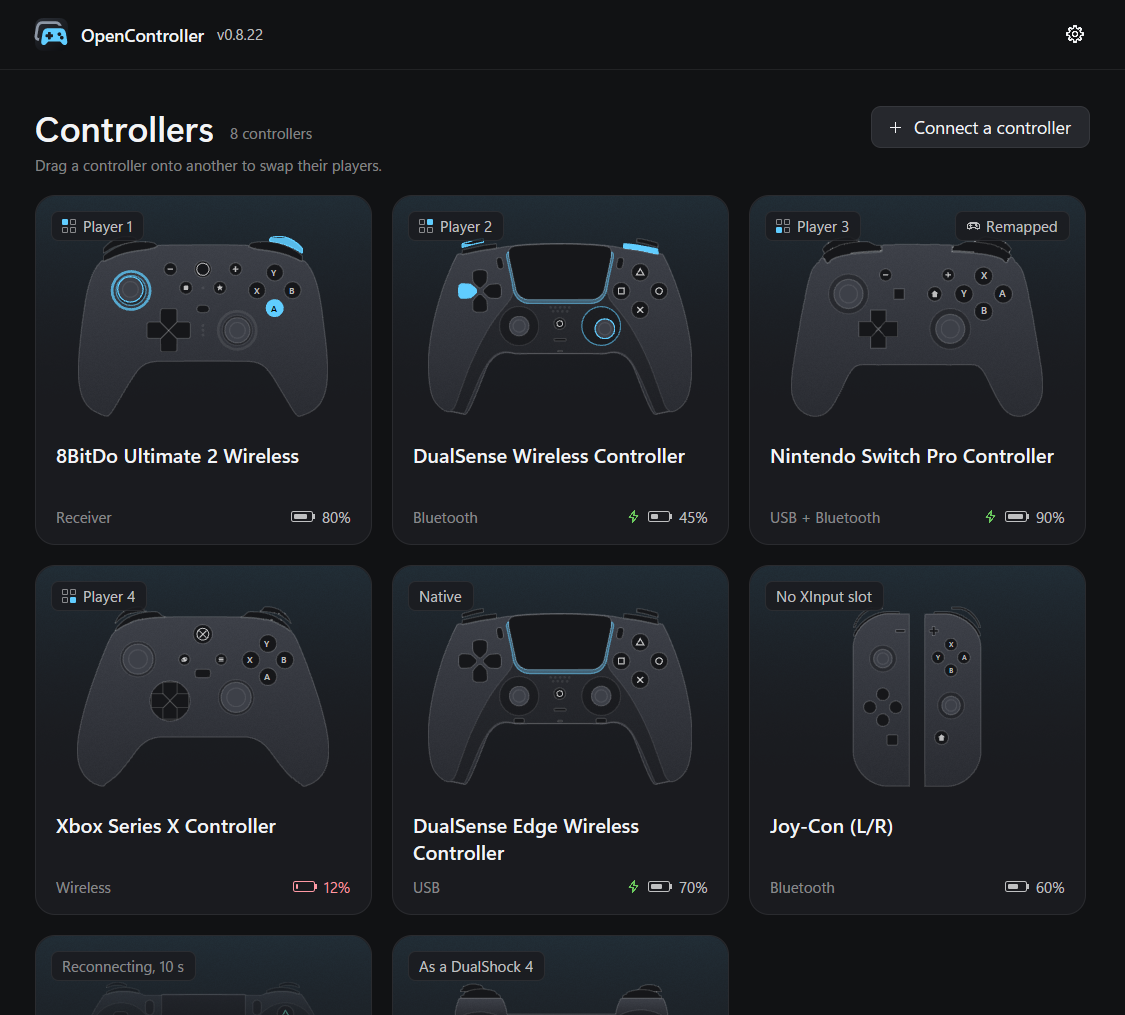
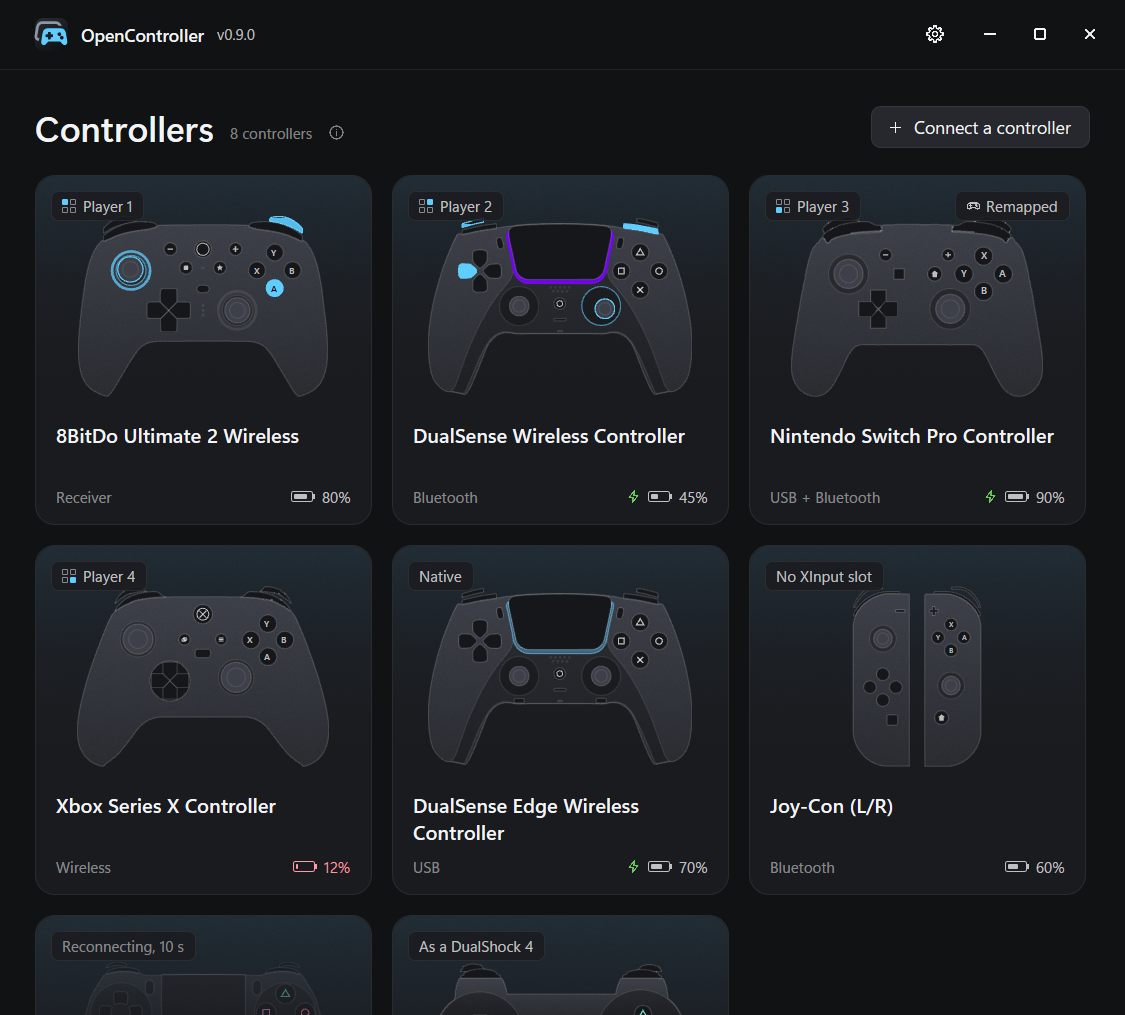
Update for 0.9.0

diff --git a/lib/guide-copy.ts b/lib/guide-copy.ts
@@ -27,8 +27,8 @@ export const GUIDE_COPY: Record<string, GuideCopy> = {
         title: { en: "Xbox or native", pt: "Xbox ou nativo" },
         body: [
           {
-            en: "By default games get an Xbox 360 controller: Xbox button prompts and rumble, but no adaptive triggers or haptics. Keep native, on the controller's page, gives the game the DualSense itself, for games that support it: PlayStation prompts, adaptive triggers and, over the cable, haptics. Profiles, gyro and remapping are off while it's native.",
-            pt: "Por padrão o jogo recebe um controle de Xbox 360: ícones de Xbox e vibração, sem gatilhos adaptáveis nem resposta tátil. Deixar nativo, na página do controle, entrega o próprio DualSense aos jogos que o suportam: ícones de PlayStation, gatilhos adaptáveis e, no cabo, resposta tátil. Perfis, giroscópio e remapeamento ficam desligados enquanto ele está nativo.",
+            en: "By default games get an Xbox 360 controller: Xbox button prompts and rumble, but no haptics, and the game can't set the adaptive triggers (the app's Lab page can give them resistance or vibration of its own). Native mode, on the controller's page, gives the game the DualSense itself, for games that support it: PlayStation prompts, adaptive triggers and, over the cable, haptics. Profiles, gyro and remapping are off while it's native.",
+            pt: "Por padrão o jogo recebe um controle de Xbox 360: ícones de Xbox e vibração, sem resposta tátil, e o jogo não usa os gatilhos adaptáveis (a página Laboratório do app dá a eles resistência ou vibração por conta própria). O Modo nativo, na página do controle, entrega o próprio DualSense aos jogos que o suportam: ícones de PlayStation, gatilhos adaptáveis e, no cabo, resposta tátil. Perfis, giroscópio e remapeamento ficam desligados enquanto ele está nativo.",
           },
         ],
       },
@@ -37,8 +37,8 @@ export const GUIDE_COPY: Record<string, GuideCopy> = {
         title: { en: "Gyro and touchpad", pt: "Giroscópio e touchpad" },
         body: [
           {
-            en: "The gyro is added to the right stick: always, while L2 is pulled, or while a button is held. The touchpad gives four buttons: click, left half, right half and two fingers. These and the mic button can each be an Xbox button, a key or a macro, in a profile per game.",
-            pt: "O giroscópio soma no analógico direito: sempre, com o L2 puxado ou segurando um botão. O touchpad vira quatro botões: clique, metade esquerda, metade direita e dois dedos. Esses e o botão do microfone podem ser um botão de Xbox, uma tecla ou uma macro, num perfil por jogo.",
+            en: "The gyro is added to the right stick: always, while L2 is pulled, or while a button is held. The touchpad gives four buttons: click, left half, right half and two fingers. These and the mic button can each be an Xbox button, a key or a macro, in a profile per game. On Windows, the touchpad can also move the mouse and the mic button can mute the PC.",
+            pt: "O giroscópio soma no analógico direito: sempre, com o L2 puxado ou segurando um botão. O touchpad vira quatro botões: clique, metade esquerda, metade direita e dois dedos. Esses e o botão do microfone podem ser um botão de Xbox, uma tecla ou uma macro, num perfil por jogo. No Windows, o touchpad também pode mover o mouse e o botão do microfone pode silenciar o PC.",
           },
         ],
       },
@@ -90,8 +90,8 @@ export const GUIDE_COPY: Record<string, GuideCopy> = {
         title: { en: "Gyro and touchpad", pt: "Giroscópio e touchpad" },
         body: [
           {
-            en: "The gyro is added to the right stick: always, while L2 is pulled, or while a button is held. The touchpad gives four buttons: click, left half, right half and two fingers. Each can be an Xbox button, a key or a macro, in a profile per game.",
-            pt: "O giroscópio soma no analógico direito: sempre, com o L2 puxado ou segurando um botão. O touchpad vira quatro botões: clique, metade esquerda, metade direita e dois dedos. Cada um pode ser um botão de Xbox, uma tecla ou uma macro, num perfil por jogo.",
+            en: "The gyro is added to the right stick: always, while L2 is pulled, or while a button is held. The touchpad gives four buttons: click, left half, right half and two fingers. Each can be an Xbox button, a key or a macro, in a profile per game. On Windows, the touchpad can also move the mouse.",
+            pt: "O giroscópio soma no analógico direito: sempre, com o L2 puxado ou segurando um botão. O touchpad vira quatro botões: clique, metade esquerda, metade direita e dois dedos. Cada um pode ser um botão de Xbox, uma tecla ou uma macro, num perfil por jogo. No Windows, o touchpad também pode mover o mouse.",
           },
         ],
       },

diff --git a/lib/faq.ts b/lib/faq.ts
@@ -52,8 +52,8 @@ export const QA: FaqItem[] = [
   {
     q: { en: "Will games show PlayStation button icons?", pt: "Os jogos vão mostrar os ícones do PlayStation?" },
     a: {
-      en: "Not by default. Games show Xbox button icons, since that is the controller they see, and special features like the DualSense's adaptive triggers don't reach them. If a game supports your controller, open it in the app and turn on Keep native. The game then sees the real controller, with its own icons, adaptive triggers and, over the cable, haptic feedback. This also lets the app work alongside a DS5Dongle. While a controller is native, its profiles, gyro aiming and remapped buttons are off. Close the game before switching.",
-      pt: "Não por padrão. Os jogos mostram os ícones do Xbox, já que é esse o controle que eles veem, e recursos especiais como os gatilhos adaptáveis do DualSense não chegam a eles. Se o jogo aceita o seu controle, abra-o no app e ligue Deixar nativo. Aí o jogo vê o controle de verdade, com os próprios ícones, os gatilhos adaptáveis e, no cabo, a vibração háptica. Isso também permite usar o app junto com um DS5Dongle. Enquanto o controle está nativo, os perfis, a mira com giroscópio e os botões remapeados ficam desligados. Feche o jogo antes de trocar.",
+      en: "Not by default. Games show Xbox button icons, since that is the controller they see, and a game can't set the DualSense's adaptive triggers itself, though the app's Lab page can give them resistance or vibration of its own. If a game supports your controller, open it in the app and turn on Native mode. The game then sees the real controller, with its own icons, adaptive triggers and, over the cable, haptic feedback. This also lets the app work alongside a DS5Dongle. While a controller is native, its profiles, gyro aiming and remapped buttons are off. Close the game before switching.",
+      pt: "Não por padrão. Os jogos mostram os ícones do Xbox, já que é esse o controle que eles veem, e o jogo não consegue usar os gatilhos adaptáveis do DualSense, mas a página Laboratório do app dá a eles resistência ou vibração por conta própria. Se o jogo aceita o seu controle, abra-o no app e ligue o Modo nativo. Aí o jogo vê o controle de verdade, com os próprios ícones, os gatilhos adaptáveis e, no cabo, a vibração háptica. Isso também permite usar o app junto com um DS5Dongle. Enquanto o controle está nativo, os perfis, a mira com giroscópio e os botões remapeados ficam desligados. Feche o jogo antes de trocar.",
     },
   },
   {
@@ -94,8 +94,8 @@ export const QA: FaqItem[] = [
   {
     q: { en: "Does it work with flight sticks and wheels?", pt: "Funciona com manche e volante?" },
     a: {
-      en: "Yes, and it leaves them as they are, since flight and racing games read them directly, with their twist, throttle and force feedback. To play a gamepad game with a Logitech Extreme 3D Pro, or a Logitech G29 on Linux or a Mac, open it in the app and turn off Keep native. It then becomes an Xbox controller. For other flight sticks and wheels, send their details from the app so they can get the same.",
-      pt: "Sim, e ele não mexe neles, porque os jogos de voo e de corrida leem esses aparelhos direto, com a torção, o acelerador e o force feedback. Para jogar um jogo de controle com um Logitech Extreme 3D Pro, ou um Logitech G29 no Linux ou no Mac, abra-o no app e desligue Deixar nativo. Aí ele vira um controle de Xbox. Para outros manches e volantes, envie os dados deles pelo app para que ganhem o mesmo.",
+      en: "Yes, and it leaves them as they are, since flight and racing games read them directly, with their twist, throttle and force feedback. To play a gamepad game with a Logitech Extreme 3D Pro, or a Logitech G29 on Linux or a Mac, open it in the app and turn off Native mode. It then becomes an Xbox controller. For other flight sticks and wheels, send their details from the app so they can get the same.",
+      pt: "Sim, e ele não mexe neles, porque os jogos de voo e de corrida leem esses aparelhos direto, com a torção, o acelerador e o force feedback. Para jogar um jogo de controle com um Logitech Extreme 3D Pro, ou um Logitech G29 no Linux ou no Mac, abra-o no app e desligue o Modo nativo. Aí ele vira um controle de Xbox. Para outros manches e volantes, envie os dados deles pelo app para que ganhem o mesmo.",
     },
   },
   {

diff --git a/lib/llms.ts b/lib/llms.ts
@@ -20,7 +20,7 @@ export function llmsTxt(release: Release | null, full: boolean): string {
   line(`> ${HOME.description.en}`);
   line();
   line(
-    "OpenController is a free, open source (MIT) desktop app. While it runs, each connected controller shows up in games as an Xbox 360 controller with its own player number, and the original is hidden so the game doesn't see it twice. On Windows it uses two free drivers, ViGEmBus and HidHide, which the app installs on request; VIIPER is an experimental alternative to ViGEmBus. On Linux it creates the virtual controllers with uinput. On Windows and Linux any button can be remapped to one or several Xbox buttons, a key or a macro of keys and Xbox buttons, in profiles that switch on with the game in front, and each stick gets a deadzone, full tilt, a response curve and a measured centre for drift. macOS reads controllers on its own, so there the app adds extra buttons as keys and macros, the light bar, battery and profiles that switch with the program in front. Windows 10 and 11 and Linux have x64 and ARM builds; HidHide has no ARM version yet, so on an ARM PC the original controller is not hidden. Linux needs glibc 2.35 or newer. macOS 13 and later get one app for Apple silicon and Intel.",
+    "OpenController is a free, open source (MIT) desktop app. While it runs, each connected controller shows up in games as an Xbox 360 controller with its own player number, and the original is hidden so the game doesn't see it twice. On Windows it uses two free drivers, ViGEmBus and HidHide, which the app installs on request; VIIPER is an experimental alternative to ViGEmBus. On Linux it creates the virtual controllers with uinput. On Windows and Linux any button can be remapped to one or several Xbox buttons, a key or a macro of keys and Xbox buttons, in profiles that switch on with the game in front, and each stick gets a deadzone, full tilt, a response curve and a measured centre for drift. An optional Lab page per controller adds DualSense trigger effects, the touchpad as a mouse and Flick Stick (Windows), Hair Trigger, two-stage and Hip Fire trigger modes, a button debounce filter, DSU motion for emulators and light bar effects. macOS reads controllers on its own, so there the app adds extra buttons as keys and macros, the light bar, battery and profiles that switch with the program in front. Windows 10 and 11 and Linux have x64 and ARM builds; HidHide has no ARM version yet, so on an ARM PC the original controller is not hidden. Linux needs glibc 2.35 or newer. macOS 13 and later get one app for Apple silicon and Intel.",
   );
   line();
   line(

diff --git a/components/Features.tsx b/components/Features.tsx
@@ -129,8 +129,8 @@ export function Features() {
 
         <Card className="lg:col-span-3" title={<T en="Your way" pt="Do seu jeito" />} visual={<SetupsVisual />}>
           <T
-            en="If you want, change what any button does, the extra ones included, aim with the gyro, tuned the way you like, fix a stick that drifts or change how it responds, play on the d-pad with a stick or move a stick with the triggers, and save a setup for each game that switches on by itself when the game opens. It's all optional: your controller works without any of it."
-            pt="Se quiser, mude o que qualquer botão faz, inclusive os extras, mire com o giroscópio no ajuste que preferir, corrija um analógico que anda sozinho ou mude a resposta dele, jogue no direcional com o analógico ou mova o analógico com os gatilhos e salve uma configuração para cada jogo, que entra sozinha quando o jogo abre. É tudo opcional: o controle já funciona sem mexer em nada."
+            en="If you want, change what any button does, the extra ones included, aim with the gyro, tuned the way you like, fix a stick that drifts or change how it responds, play on the d-pad with a stick or move a stick with the triggers, and save a setup for each game that switches on by itself when the game opens. The Lab adds more: trigger effects on a DualSense, the touchpad as a mouse and Flick Stick on Windows, and motion for emulators like Cemu. It's all optional: your controller works without any of it."
+            pt="Se quiser, mude o que qualquer botão faz, inclusive os extras, mire com o giroscópio no ajuste que preferir, corrija um analógico que anda sozinho ou mude a resposta dele, jogue no direcional com o analógico ou mova o analógico com os gatilhos e salve uma configuração para cada jogo, que entra sozinha quando o jogo abre. O Laboratório vai além: efeitos nos gatilhos do DualSense, o touchpad como mouse e o Flick Stick no Windows, e o movimento para emuladores como o Cemu. É tudo opcional: o controle já funciona sem mexer em nada."
           />
         </Card>
 
